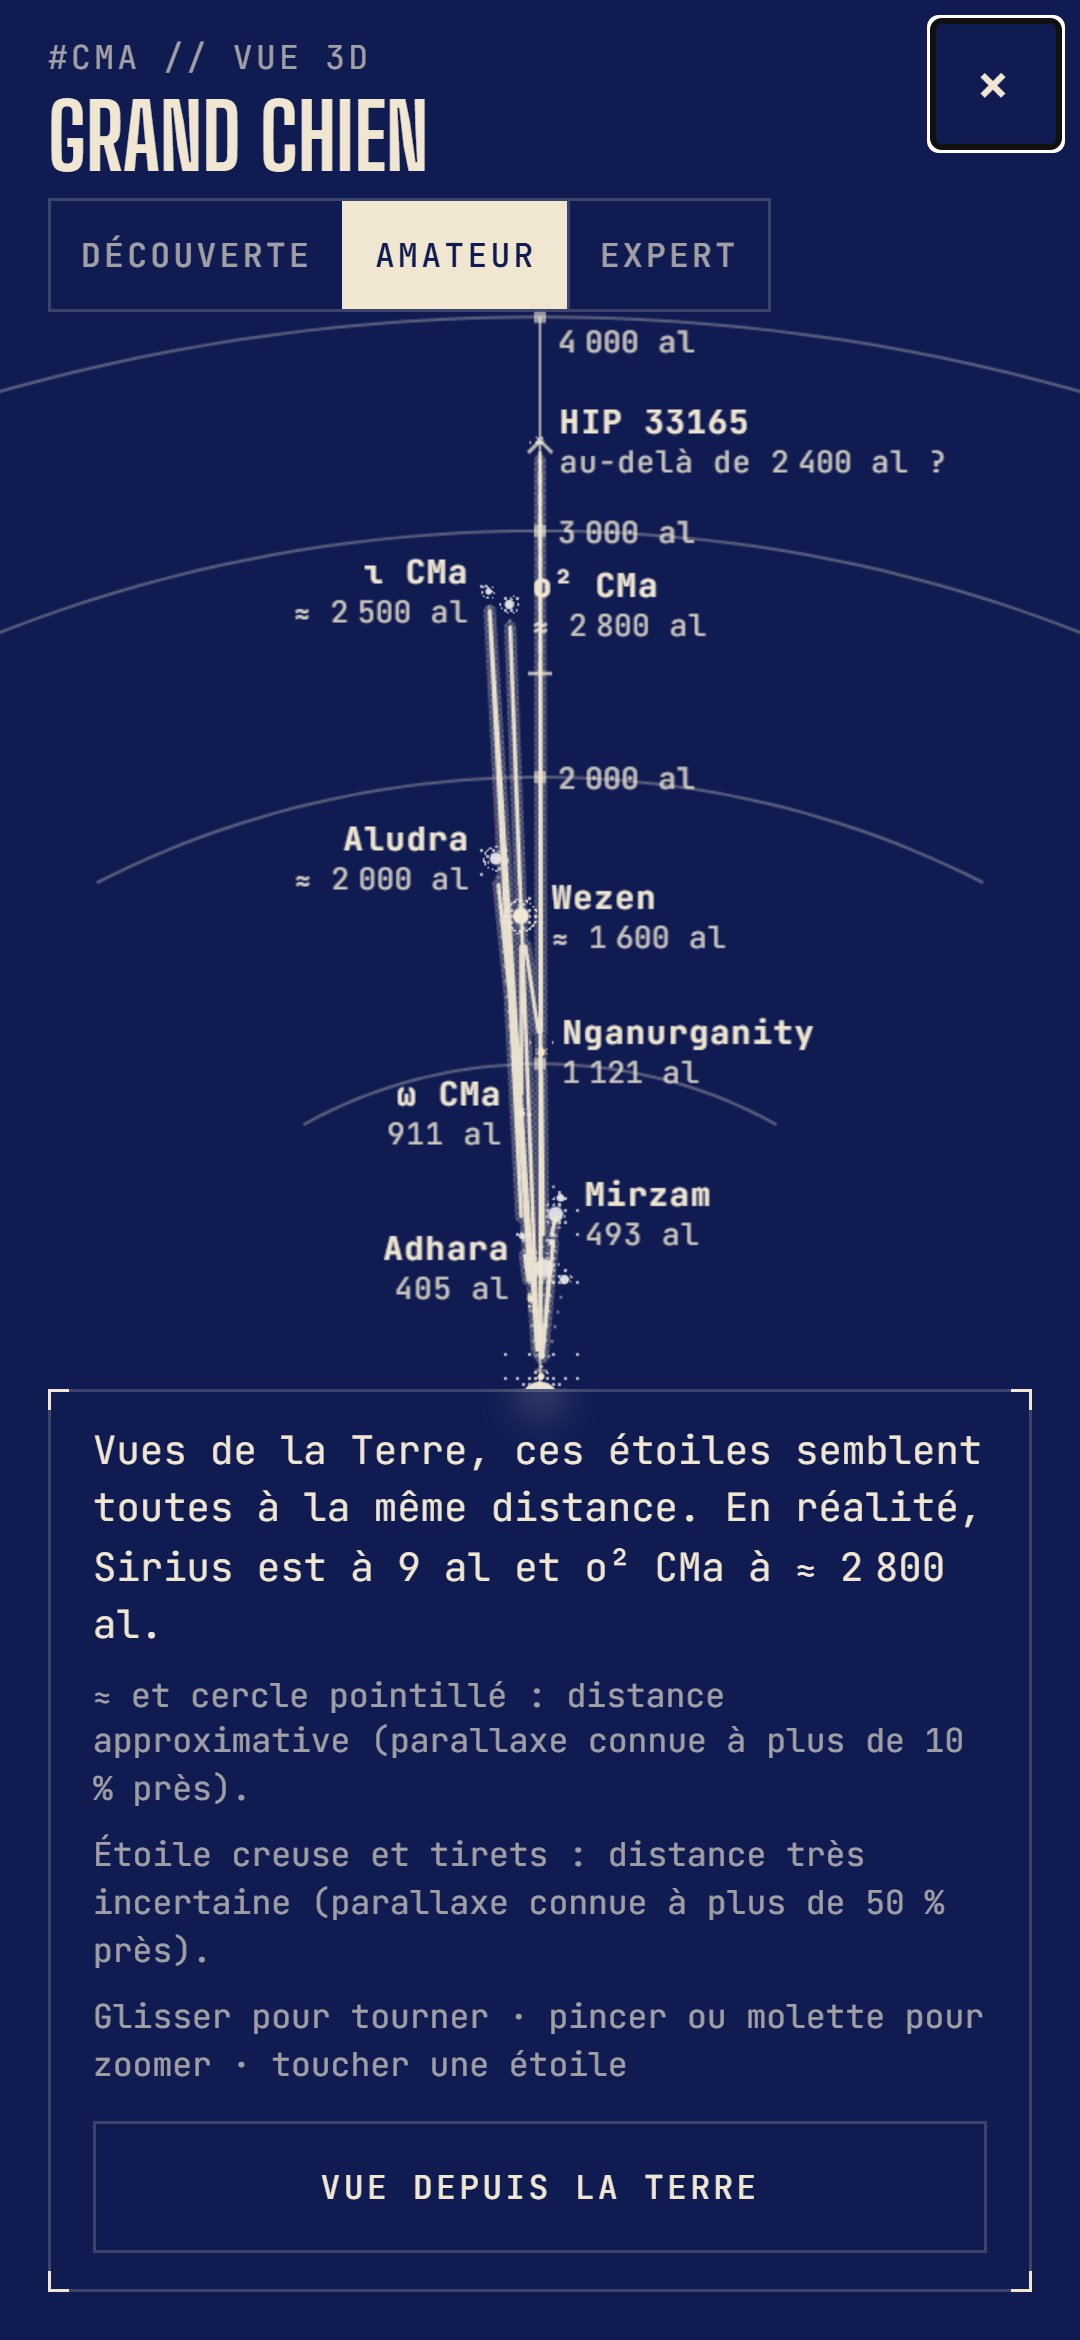
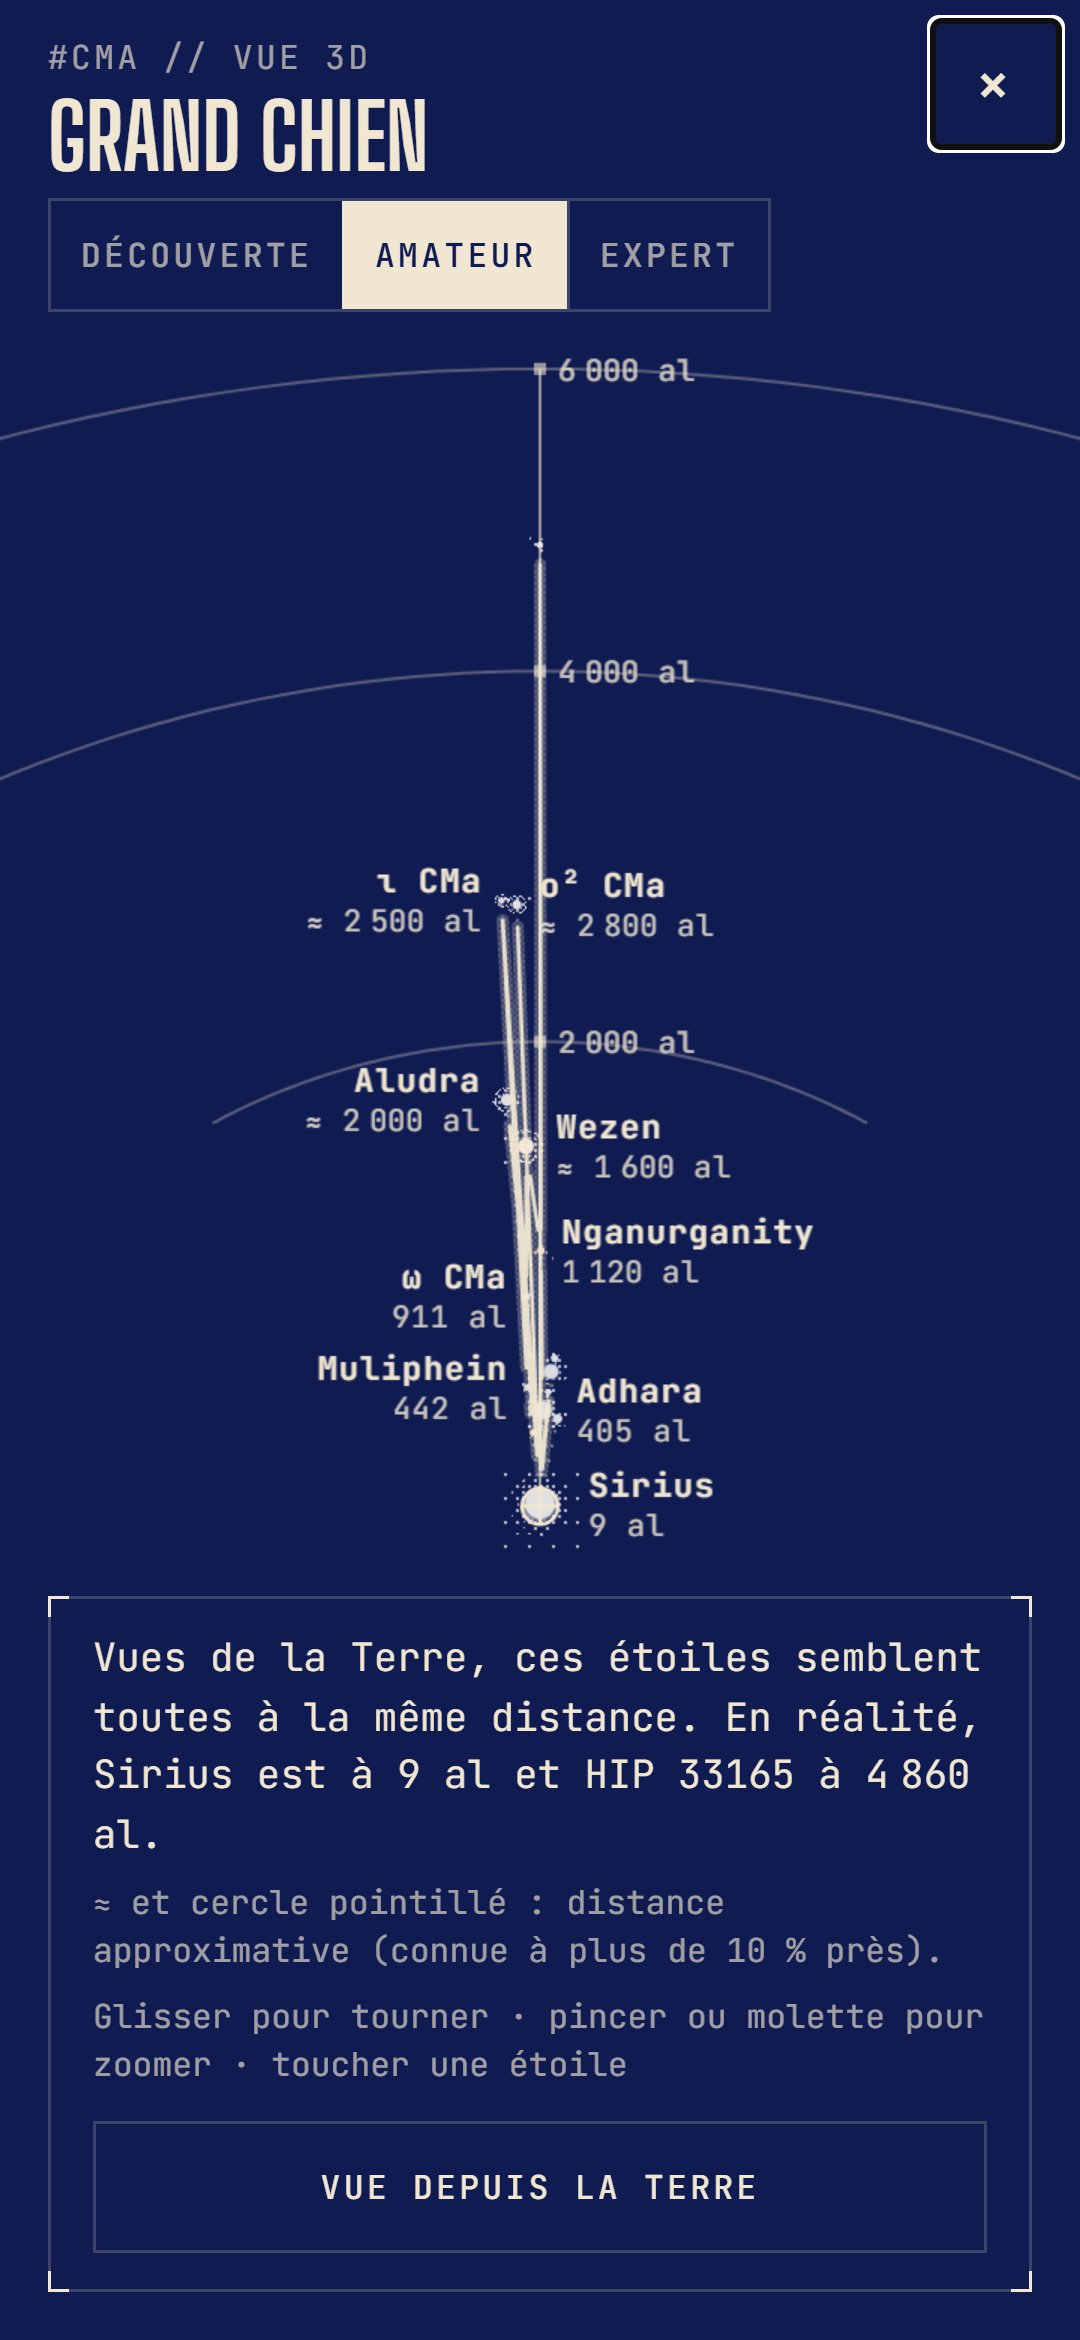
feat(renderer): place the 3D figure at the catalogue's reference distances (#8)
Use distanceLy ± distanceErrorLy and its source (Hipparcos, Gaia DR3, literature)
from the v2 catalogue (#82) instead of an ad hoc reference map; the parallax stays
the fallback for catalogues without reference distance.

diff --git a/packages/sky-renderer/src/constellation-3d-model.ts b/packages/sky-renderer/src/constellation-3d-model.ts
@@ -3,16 +3,17 @@
  * its tests and the UI. No WebGL, no DOM.
  *
  * Distances
- * - From the Hipparcos parallax (van Leeuwen 2007, VizieR I/311): d = 1000 / ϖ pc, ϖ in mas,
- *   1 pc = 3.261 563 777 ly (IAU 2015 B2 parsec, Julian-year light-year).
- * - ±1σ in distance: the parallax interval [ϖ − σ, ϖ + σ] mapped through 1/ϖ, so the interval is
- *   asymmetric: [1000/(ϖ+σ), 1000/(ϖ−σ)] pc, unbounded beyond when σ ≥ ϖ.
- * - Quality from σϖ/ϖ, with the thresholds of the star panel (apps/web/src/lib/format.ts):
- *   ≤ 0.1 precise; ≤ 0.5 approximate (flagged); beyond, or ϖ ≤ 0, the parallax says little about
- *   the distance: the star is placed with an explicit uncertainty segment.
- * - A reference distance (`distanceLy`, `distanceSource`, optional `distanceErrorLy`) on the
- *   record, or in `references`, takes precedence over the parallax (#75: Deneb and other stars
- *   whose Hipparcos parallax is known to be biased).
+ * - The catalogue's reference distance first (#75, `@asteria/catalog`: `distanceLy` ± 1σ
+ *   `distanceErrorLy`, `distanceSource` "hipparcos" | "gaia-dr3" | "literature"): the more precise
+ *   of the Hipparcos 2007 and Gaia DR3 parallaxes, or a published distance for stars whose parallax
+ *   is biased (Deneb, Betelgeuse). Its ±1σ interval is d ± σ, as published.
+ * - Otherwise (catalogues without reference distance, or a parallax error above the parallax):
+ *   the Hipparcos parallax (van Leeuwen 2007, VizieR I/311), d = 1000 / ϖ pc, ϖ in mas,
+ *   1 pc = 3.261 563 777 ly (IAU 2015 B2 parsec, Julian-year light-year); ±1σ is the parallax
+ *   interval mapped through 1/ϖ, asymmetric: [1000/(ϖ+σ), 1000/(ϖ−σ)] pc, unbounded when σ ≥ ϖ.
+ * - Quality from the relative error σd/d (= σϖ/ϖ to first order): ≤ 0.1 precise; ≤ 0.5
+ *   approximate (flagged); beyond, or ϖ ≤ 0, the distance is barely an order of magnitude: the
+ *   star is placed with an explicit uncertainty segment.
  *
  * Frames
  * - Positions are cartesian in light-years, in the frame given by `frame` (a rotation applied to
@@ -30,21 +31,30 @@ import { stereoScale, viewMatrix, type ViewState } from "./view";
 export const LY_PER_PARSEC = 3.261_563_777;
 /** Distance in ly of a 1 mas parallax: d(ly) = PARALLAX_LY / ϖ(mas). */
 export const PARALLAX_LY = 1000 * LY_PER_PARSEC;
-/** σϖ/ϖ above which a distance is only approximate (flagged). */
+/** σd/d (σϖ/ϖ) above which a distance is only approximate (flagged). */
 export const PARALLAX_APPROX = 0.1;
-/** σϖ/ϖ above which the distance is placed with an explicit uncertainty segment. */
+/** σd/d (σϖ/ϖ) above which the distance is placed with an explicit uncertainty segment. */
 export const PARALLAX_UNRELIABLE = 0.5;
 
-export type DistanceQuality = "precise" | "approx" | "uncertain" | "reference";
+export type DistanceQuality = "precise" | "approx" | "uncertain";
 
-/** A distance measured otherwise than by the catalogue parallax (#75). */
-export interface ReferenceDistance {
-  /** Distance, light-years. */
-  distanceLy: number;
-  /** Short citation of the source, e.g. "Schiller & Przybilla 2008". */
-  distanceSource: string;
-  /** ±1σ, light-years, when the source gives one. */
-  distanceErrorLy?: number;
+/** Origin of a distance: the catalogue's reference distance source, or the parallax itself. */
+export type DistanceOrigin = "hipparcos" | "gaia-dr3" | "literature" | "parallax";
+
+/**
+ * Distance fields of a catalogue record (`CatalogStar` of `@asteria/catalog`, #75), all optional:
+ * catalogues of format v1 only have the parallax.
+ */
+export interface DistanceInput {
+  /** Hipparcos parallax and its standard error, mas. */
+  plx?: number | undefined;
+  ePlx?: number | undefined;
+  /** Reference distance and its 1σ uncertainty, light-years. */
+  distanceLy?: number | undefined;
+  distanceErrorLy?: number | undefined;
+  distanceSource?: "hipparcos" | "gaia-dr3" | "literature" | undefined;
+  /** Citation of a "literature" distance. */
+  distanceReference?: string | undefined;
 }
 
 export interface StellarDistance {
@@ -52,34 +62,41 @@ export interface StellarDistance {
   ly: number;
   /** −1σ bound (ly). */
   nearLy: number;
-  /** +1σ bound (ly); Infinity when σϖ ≥ ϖ. */
+  /** +1σ bound (ly); Infinity when unbounded (σϖ ≥ ϖ). */
   farLy: number;
   quality: DistanceQuality;
-  /** σϖ/ϖ (or σd/d for a reference distance); NaN when unknown. */
+  /** σd/d (σϖ/ϖ for a parallax); NaN when unknown. */
   relError: number;
-  source: "parallax" | "reference";
-  /** Citation of a reference distance. */
-  distanceSource?: string;
+  source: DistanceOrigin;
+  /** Citation of a "literature" distance. */
+  reference?: string;
 }
-
-/** Input of `stellarDistance`: a catalogue record, optionally with a reference distance. */
-export type DistanceInput = { plx?: number; ePlx?: number } & Partial<ReferenceDistance>;
 
 const finitePositive = (x: number | undefined): x is number =>
   x !== undefined && Number.isFinite(x) && x > 0;
 
+const grade = (relError: number): DistanceQuality =>
+  relError <= PARALLAX_APPROX
+    ? "precise"
+    : relError <= PARALLAX_UNRELIABLE
+      ? "approx"
+      : "uncertain";
+
 /** Distance of a star and its ±1σ interval; null when nothing is known. */
 export function stellarDistance(s: DistanceInput): StellarDistance | null {
   if (finitePositive(s.distanceLy)) {
-    const e = finitePositive(s.distanceErrorLy) ? s.distanceErrorLy : 0;
+    const ly = s.distanceLy;
+    const e = finitePositive(s.distanceErrorLy) ? s.distanceErrorLy : NaN;
+    const relError = e / ly;
     return {
-      ly: s.distanceLy,
-      nearLy: Math.max(0, s.distanceLy - e),
-      farLy: s.distanceLy + e,
-      quality: "reference",
-      relError: e ? e / s.distanceLy : NaN,
-      source: "reference",
-      ...(s.distanceSource !== undefined && { distanceSource: s.distanceSource }),
+      ly,
+      nearLy: Number.isNaN(e) ? ly : Math.max(0, ly - e),
+      farLy: Number.isNaN(e) ? ly : ly + e,
+      // Without a stated error a published distance is taken as precise.
+      quality: Number.isNaN(e) ? "precise" : grade(relError),
+      relError,
+      source: s.distanceSource ?? "parallax",
+      ...(s.distanceReference !== undefined && { reference: s.distanceReference }),
     };
   }
   const plx = s.plx;
@@ -105,12 +122,7 @@ export function stellarDistance(s: DistanceInput): StellarDistance | null {
     ly,
     nearLy: PARALLAX_LY / (plx + e),
     farLy: plx > e ? PARALLAX_LY / (plx - e) : Infinity,
-    quality:
-      relError <= PARALLAX_APPROX
-        ? "precise"
-        : relError <= PARALLAX_UNRELIABLE
-          ? "approx"
-          : "uncertain",
+    quality: grade(relError),
     relError,
     source: "parallax",
   };
@@ -156,8 +168,6 @@ export interface BuildOptions {
   years?: number;
   /** Rotation applied to the ICRS directions (default: identity, ICRS frame). */
   frame?: Mat3;
-  /** Reference distances by HIP number (override the records' own fields and the parallax). */
-  references?: ReadonlyMap<number, ReferenceDistance>;
 }
 
 /** Scene limit for uncertain stars: 25 % beyond the farthest reliable one. */
@@ -169,11 +179,11 @@ const DEFAULT_LIMIT_LY = 1000;
  * The stars of a constellation's figure (`lines`: polylines of HIP numbers) at their distances,
  * moved to the date by their proper motion.
  */
-export function buildConstellation3D<S extends CatalogStar & Partial<ReferenceDistance>>(
+export function buildConstellation3D<S extends CatalogStar & DistanceInput>(
   stars: readonly S[],
   lines: Readonly<Record<string, number[][]>>,
   abbr: string,
-  { years = 0, frame, references }: BuildOptions = {},
+  { years = 0, frame }: BuildOptions = {},
 ): Constellation3DModel<S> {
   const polylines = lines[abbr] ?? [];
   const order: number[] = [];
@@ -191,8 +201,7 @@ export function buildConstellation3D<S extends CatalogStar & Partial<ReferenceDi
     const p = years ? propagateStar(s, years) : s;
     const u = unitVector(p.ra, p.dec);
     const dir = frame ? applyMat3(frame, u) : u;
-    const ref = references?.get(hip);
-    const distance = stellarDistance(ref ? { ...s, ...ref } : s);
+    const distance = stellarDistance(s);
     out.push({
       star: s,
       dir,

diff --git a/packages/sky-renderer/src/constellation-3d-model.test.ts b/packages/sky-renderer/src/constellation-3d-model.test.ts
@@ -8,6 +8,7 @@ import {
 } from "@asteria/astro-core";
 import {
   FIT_X,
+  LY_PER_PARSEC,
   PARALLAX_LY,
   PHASES,
   buildConstellation3D,
@@ -66,6 +67,35 @@ const BELLATRIX: CatalogStar = {
   pmDec: -12.88,
   name: "Bellatrix",
   con: "Ori",
+};
+/**
+ * The same stars in the catalogue format v2 (#82): reference distance and 1σ in light-years,
+ * three and two significant figures, with its source.
+ */
+const BETELGEUSE_V2 = {
+  ...BETELGEUSE,
+  distanceLy: 548,
+  distanceErrorLy: 68,
+  distanceSource: "literature" as const,
+  distanceReference: "Joyce et al. 2020, ApJ 902, 63",
+};
+const RIGEL_V2 = {
+  ...RIGEL,
+  distanceLy: 863,
+  distanceErrorLy: 78,
+  distanceSource: "hipparcos" as const,
+};
+const BELLATRIX_V2 = {
+  ...BELLATRIX,
+  distanceLy: 252,
+  distanceErrorLy: 10,
+  distanceSource: "hipparcos" as const,
+};
+const DENEB_V2 = {
+  distanceLy: 2620,
+  distanceErrorLy: 220,
+  distanceSource: "literature" as const,
+  distanceReference: "Schiller & Przybilla 2008, A&A 479, 849",
 };
 /** π³ Ori (Tabit), I/311: ϖ = 123.94 ± 0.17 mas. */
 const TABIT = { plx: 123.94, ePlx: 0.17 };
@@ -155,23 +185,47 @@ describe("stellarDistance", () => {
     expect(stellarDistance({})).toBeNull();
   });
 
-  it("prefers a reference distance (#75)", () => {
-    const deneb = stellarDistance({
-      plx: 2.31,
-      ePlx: 0.32,
-      distanceLy: 2615,
-      distanceErrorLy: 215,
-      distanceSource: "Schiller & Przybilla 2008",
-    })!;
+  it("prefers the catalogue's reference distance (#75): Deneb, published", () => {
+    // Catalogue v2 record (stars.bin, #82): Schiller & Przybilla 2008, 802 ± 66 pc.
+    const deneb = stellarDistance({ ...DENEB_V2, plx: 2.31, ePlx: 0.32 })!;
     expect(deneb).toMatchObject({
-      ly: 2615,
+      ly: 2620,
       nearLy: 2400,
-      farLy: 2830,
-      quality: "reference",
-      source: "reference",
-      distanceSource: "Schiller & Przybilla 2008",
+      farLy: 2840,
+      quality: "precise",
+      source: "literature",
+      reference: "Schiller & Przybilla 2008, A&A 479, 849",
     });
-    expect(stellarDistance({ distanceLy: 100, distanceSource: "x" })!.relError).toBeNaN();
+    // The publication, in light-years: 802 pc.
+    expect(Math.abs(deneb.ly - 802 * LY_PER_PARSEC)).toBeLessThan(0.1 * 66 * LY_PER_PARSEC);
+    // Its Hipparcos parallax alone would put it at 1 400 ly.
+    expect(stellarDistance({ plx: 2.31, ePlx: 0.32 })!.ly).toBeCloseTo(1412, 0);
+  });
+
+  it("matches SIMBAD's parallaxes through the catalogue's reference distances", () => {
+    for (const star of [RIGEL_V2, BELLATRIX_V2]) {
+      const ref = SIMBAD[star.hip]!;
+      const d = stellarDistance(star)!;
+      const simbadLy = PARALLAX_LY / ref.plx;
+      const sigmaLy = (simbadLy * ref.ePlx) / ref.plx;
+      // Three significant figures in the catalogue: within a tenth of σ.
+      expect(Math.abs(d.ly - simbadLy)).toBeLessThan(0.1 * sigmaLy);
+      expect(Math.abs(d.farLy - d.ly - sigmaLy)).toBeLessThan(0.1 * sigmaLy);
+      expect(d.source).toBe("hipparcos");
+    }
+    // Betelgeuse: a published distance (Joyce et al. 2020: 168 pc), not its parallax (498 ly).
+    const betelgeuse = stellarDistance(BETELGEUSE_V2)!;
+    expect(Math.abs(betelgeuse.ly - 168 * LY_PER_PARSEC)).toBeLessThan(1);
+    expect(betelgeuse.quality).toBe("approx"); // ± 12 %
+    expect(betelgeuse.source).toBe("literature");
+  });
+
+  it("grades a reference distance by its relative error", () => {
+    expect(stellarDistance({ distanceLy: 3930, distanceErrorLy: 2200 })!.quality).toBe("uncertain");
+    expect(stellarDistance({ distanceLy: 1980, distanceErrorLy: 540 })!.quality).toBe("approx");
+    const bare = stellarDistance({ distanceLy: 100, distanceSource: "literature" })!;
+    expect(bare.relError).toBeNaN();
+    expect(bare.quality).toBe("precise");
   });
 });
 
@@ -225,12 +279,12 @@ describe("buildConstellation3D", () => {
     expect(norm(u!.position)).toBeCloseTo(model.limitLy, 6);
   });
 
-  it("uses reference distances given on the side", () => {
-    const refs = new Map([[RIGEL.hip, { distanceLy: 860, distanceSource: "test" }]]);
-    const model = buildConstellation3D(ORION, LINES, "Ori", { references: refs });
-    const rigel = model.stars.find((s) => s.star.hip === RIGEL.hip)!;
-    expect(rigel.distance!.quality).toBe("reference");
-    expect(norm(rigel.position)).toBeCloseTo(860, 9);
+  it("places the stars at the catalogue's reference distances when it has them", () => {
+    const model = buildConstellation3D([BETELGEUSE_V2, RIGEL_V2, BELLATRIX_V2], LINES, "Ori");
+    const at = (hip: number) => norm(model.stars.find((s) => s.star.hip === hip)!.position);
+    expect(at(BETELGEUSE.hip)).toBeCloseTo(548, 9);
+    expect(at(RIGEL.hip)).toBeCloseTo(863, 9);
+    expect(at(BELLATRIX.hip)).toBeCloseTo(252, 9);
   });
 
   it("rotates the directions into the requested frame", () => {

diff --git a/apps/web/src/components/Constellation3D.svelte b/apps/web/src/components/Constellation3D.svelte
@@ -5,7 +5,8 @@
   import { onMount, untrack } from "svelte";
   import { _ } from "@asteria/ui";
   import { j2000ToHorizontalMatrix, yearsSinceHipparcos, type Observer } from "@asteria/astro-core";
-  import type { CatalogStar, ViewState } from "@asteria/sky-renderer";
+  import type { CatalogStar } from "@asteria/catalog";
+  import type { ViewState } from "@asteria/sky-renderer";
   import {
     Constellation3DView,
     buildConstellation3D,
@@ -31,6 +32,7 @@
     abbr: string;
     /** Constellation name, localised. */
     name: string;
+    /** Catalogue records: their reference distance (#75) places the stars. */
     stars: readonly CatalogStar[];
     lines: Readonly<Record<string, number[][]>>;
     /** Displayed date and place: the 3D view starts exactly as the sky map shows the figure. */
@@ -106,7 +108,7 @@
       : $_("c3d.distance", { values: { ly: number(d.ly) } });
   }
 
-  function label(s: Star3D, lvl: Level3D) {
+  function label(s: Star3D<CatalogStar>, lvl: Level3D) {
     // An uncertain star is always named (but in Découverte): its label carries the warning.
     const name =
       designation(s.star, lvl) ||
@@ -118,7 +120,7 @@
     const near = model.stars[model.nearest];
     const far = model.stars[model.farthest];
     if (!near || !far || near === far) return $_("c3d.lessonFlat");
-    const named = (s: Star3D) => designation(s.star, "expert");
+    const named = (s: Star3D<CatalogStar>) => designation(s.star, "expert");
     return $_("c3d.lesson", {
       values: {
         near: named(near),
@@ -283,12 +285,21 @@
         <span class="star-name"><Designation text={designation(s.star, "expert")} /></span>
         <span>{distanceText(d, level === "discovery" ? "amateur" : level)}</span>
       </p>
-      {#if d?.source === "reference"}
+      {#if d && level !== "discovery" && Number.isFinite(d.relError) && d.farLy > d.nearLy}
         <p class="note">
-          {$_("c3d.star.sourceReference", { values: { source: d.distanceSource ?? "" } })}
+          {$_("c3d.star.error", {
+            values: { err: sig2((d.farLy - d.nearLy) / 2), pct: d.relError },
+          })}
         </p>
-      {:else if s.star.plx !== undefined}
-        {#if level !== "discovery" && s.star.ePlx !== undefined}
+      {/if}
+      {#if d?.source === "literature"}
+        <p class="note">
+          {$_("c3d.star.sourceLiterature", { values: { source: d.reference ?? "" } })}
+        </p>
+      {:else if d?.source === "gaia-dr3"}
+        <p class="note">{$_("c3d.star.sourceGaia")}</p>
+      {:else if d}
+        {#if level === "expert" && s.star.plx !== undefined && s.star.ePlx !== undefined}
           <p class="note">
             {$_("c3d.star.parallax", {
               values: {

diff --git a/apps/web/src/App.svelte b/apps/web/src/App.svelte
@@ -128,7 +128,8 @@
   let view3d = $state.raw<{
     abbr: string;
     view: ViewState;
-    stars: CatalogStar[];
+    // The map holds the decoded catalogue records, which carry the reference distances (#75).
+    stars: CatalogRecord[];
     lines: Record<string, number[][]>;
   } | null>(null);
   // Loaded on demand with its renderer: not in the start-up bundle.
@@ -144,7 +145,8 @@
     }
     if (!map || !catalog) return;
     stopPlaying();
-    view3d = { abbr, view: { ...map.view }, stars: catalog.stars, lines: catalog.lines };
+    const stars = catalog.stars as CatalogRecord[];
+    view3d = { abbr, view: { ...map.view }, stars, lines: catalog.lines };
     map.stop(); // hidden under the 3D view, which starts from its last frame
   }
   function close3d() {
